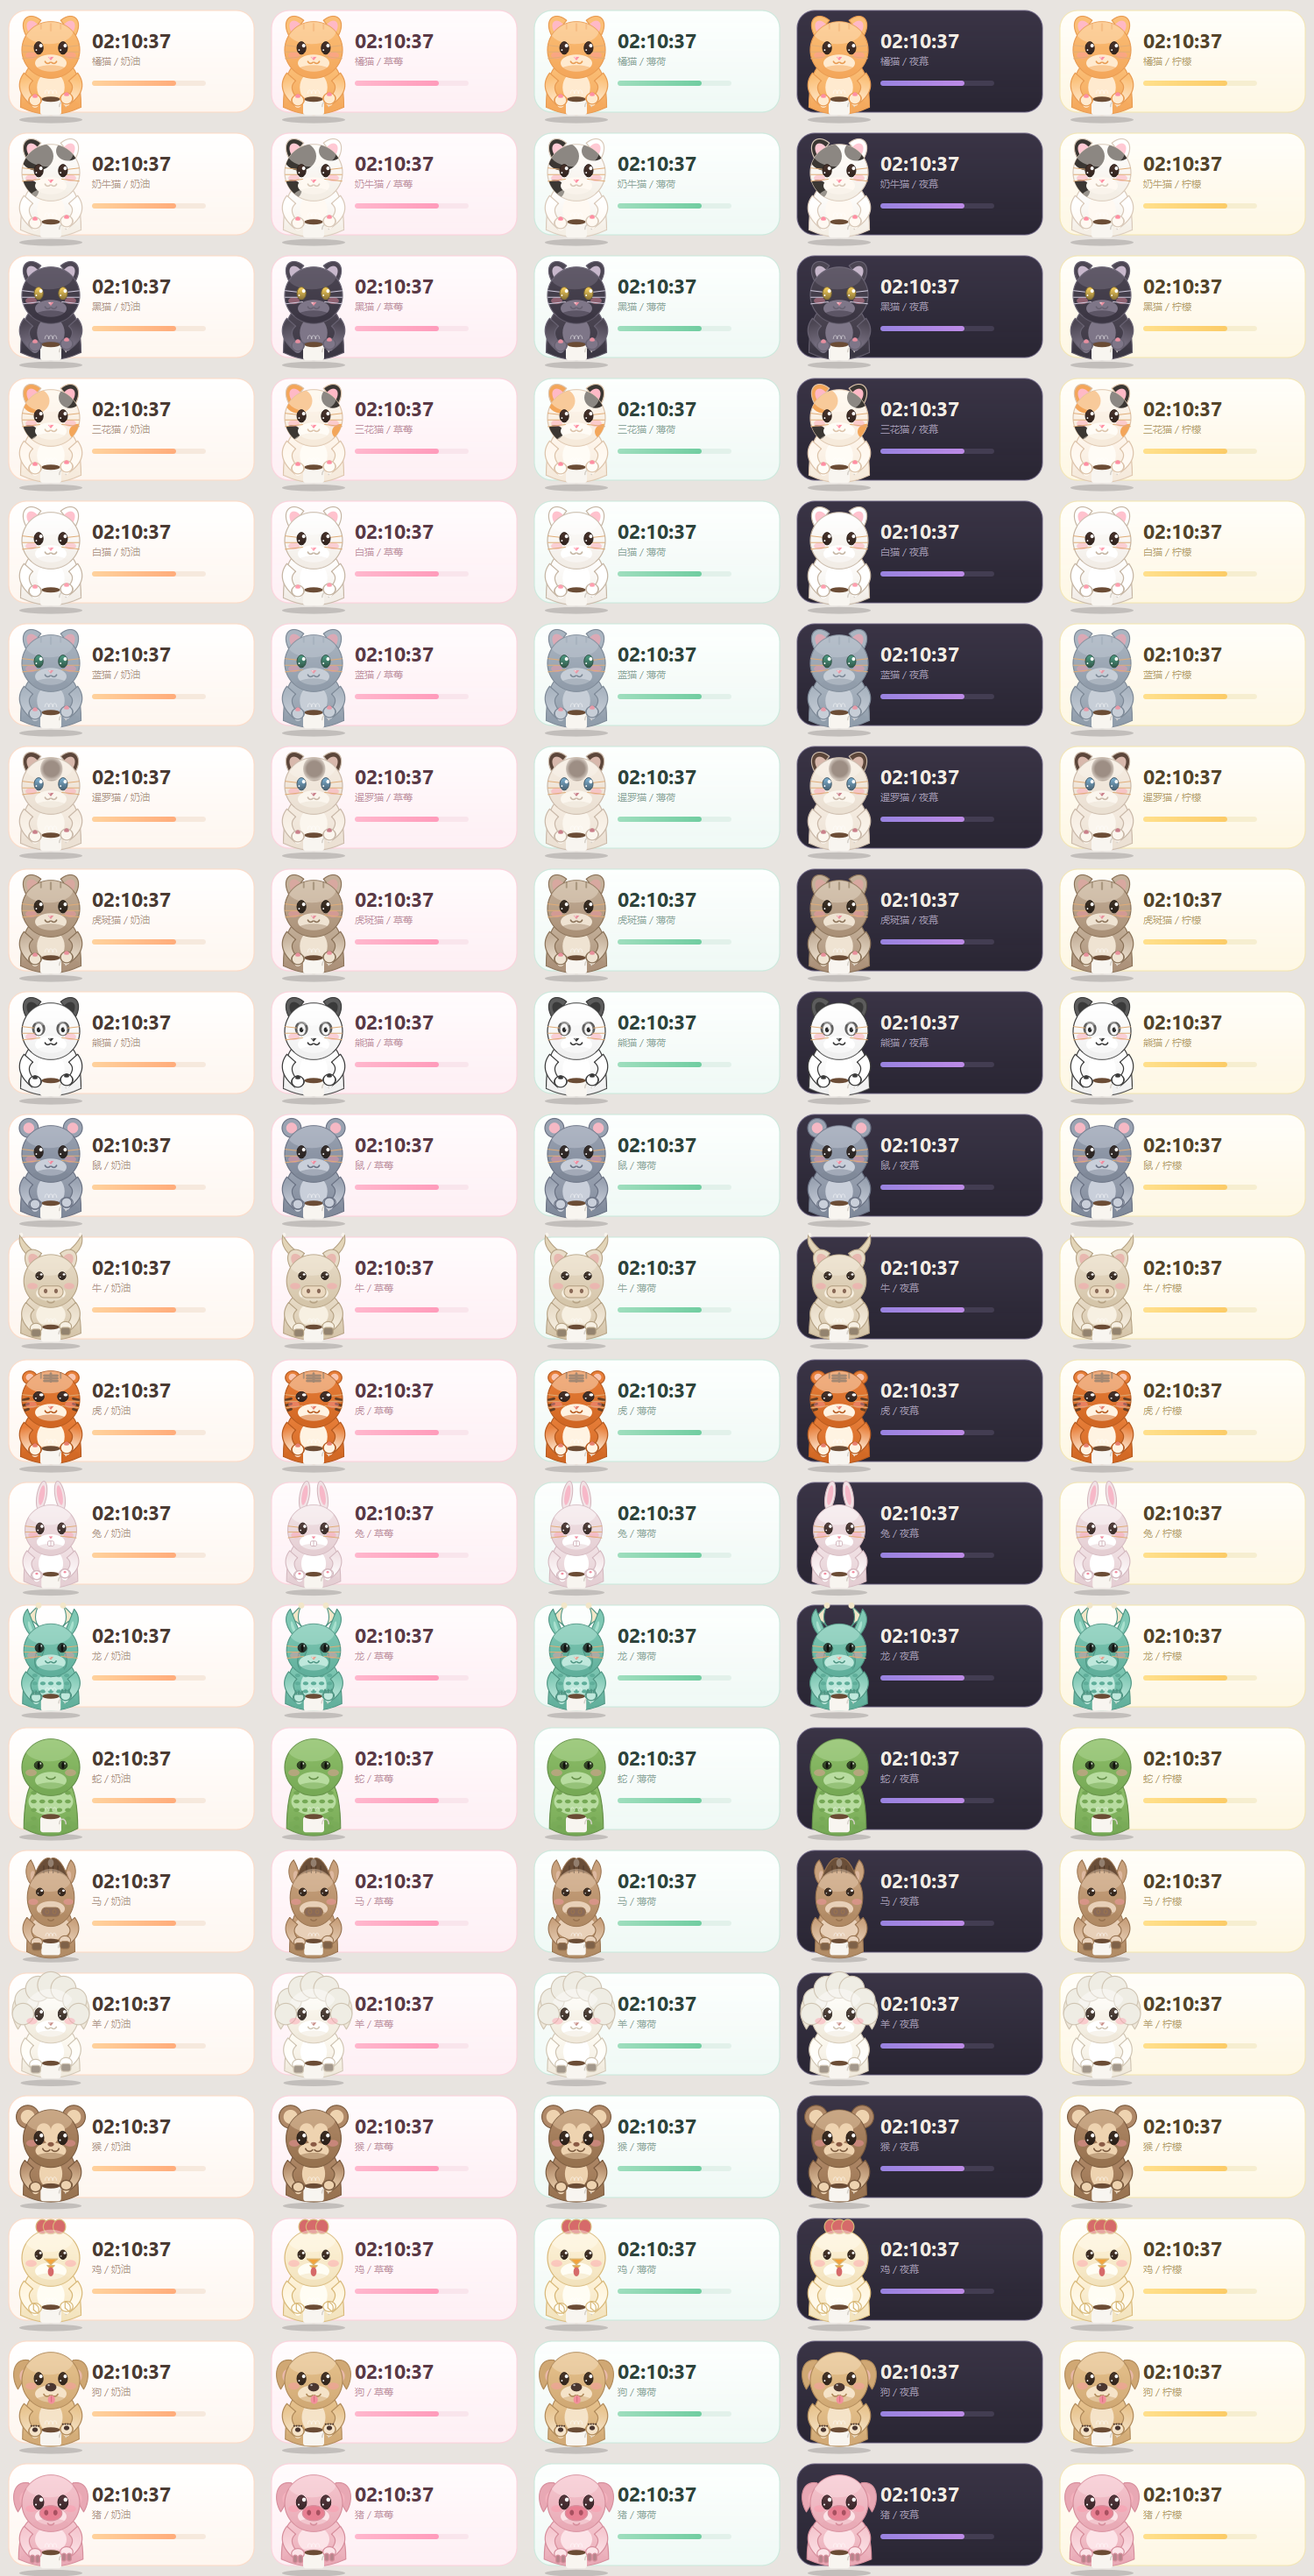
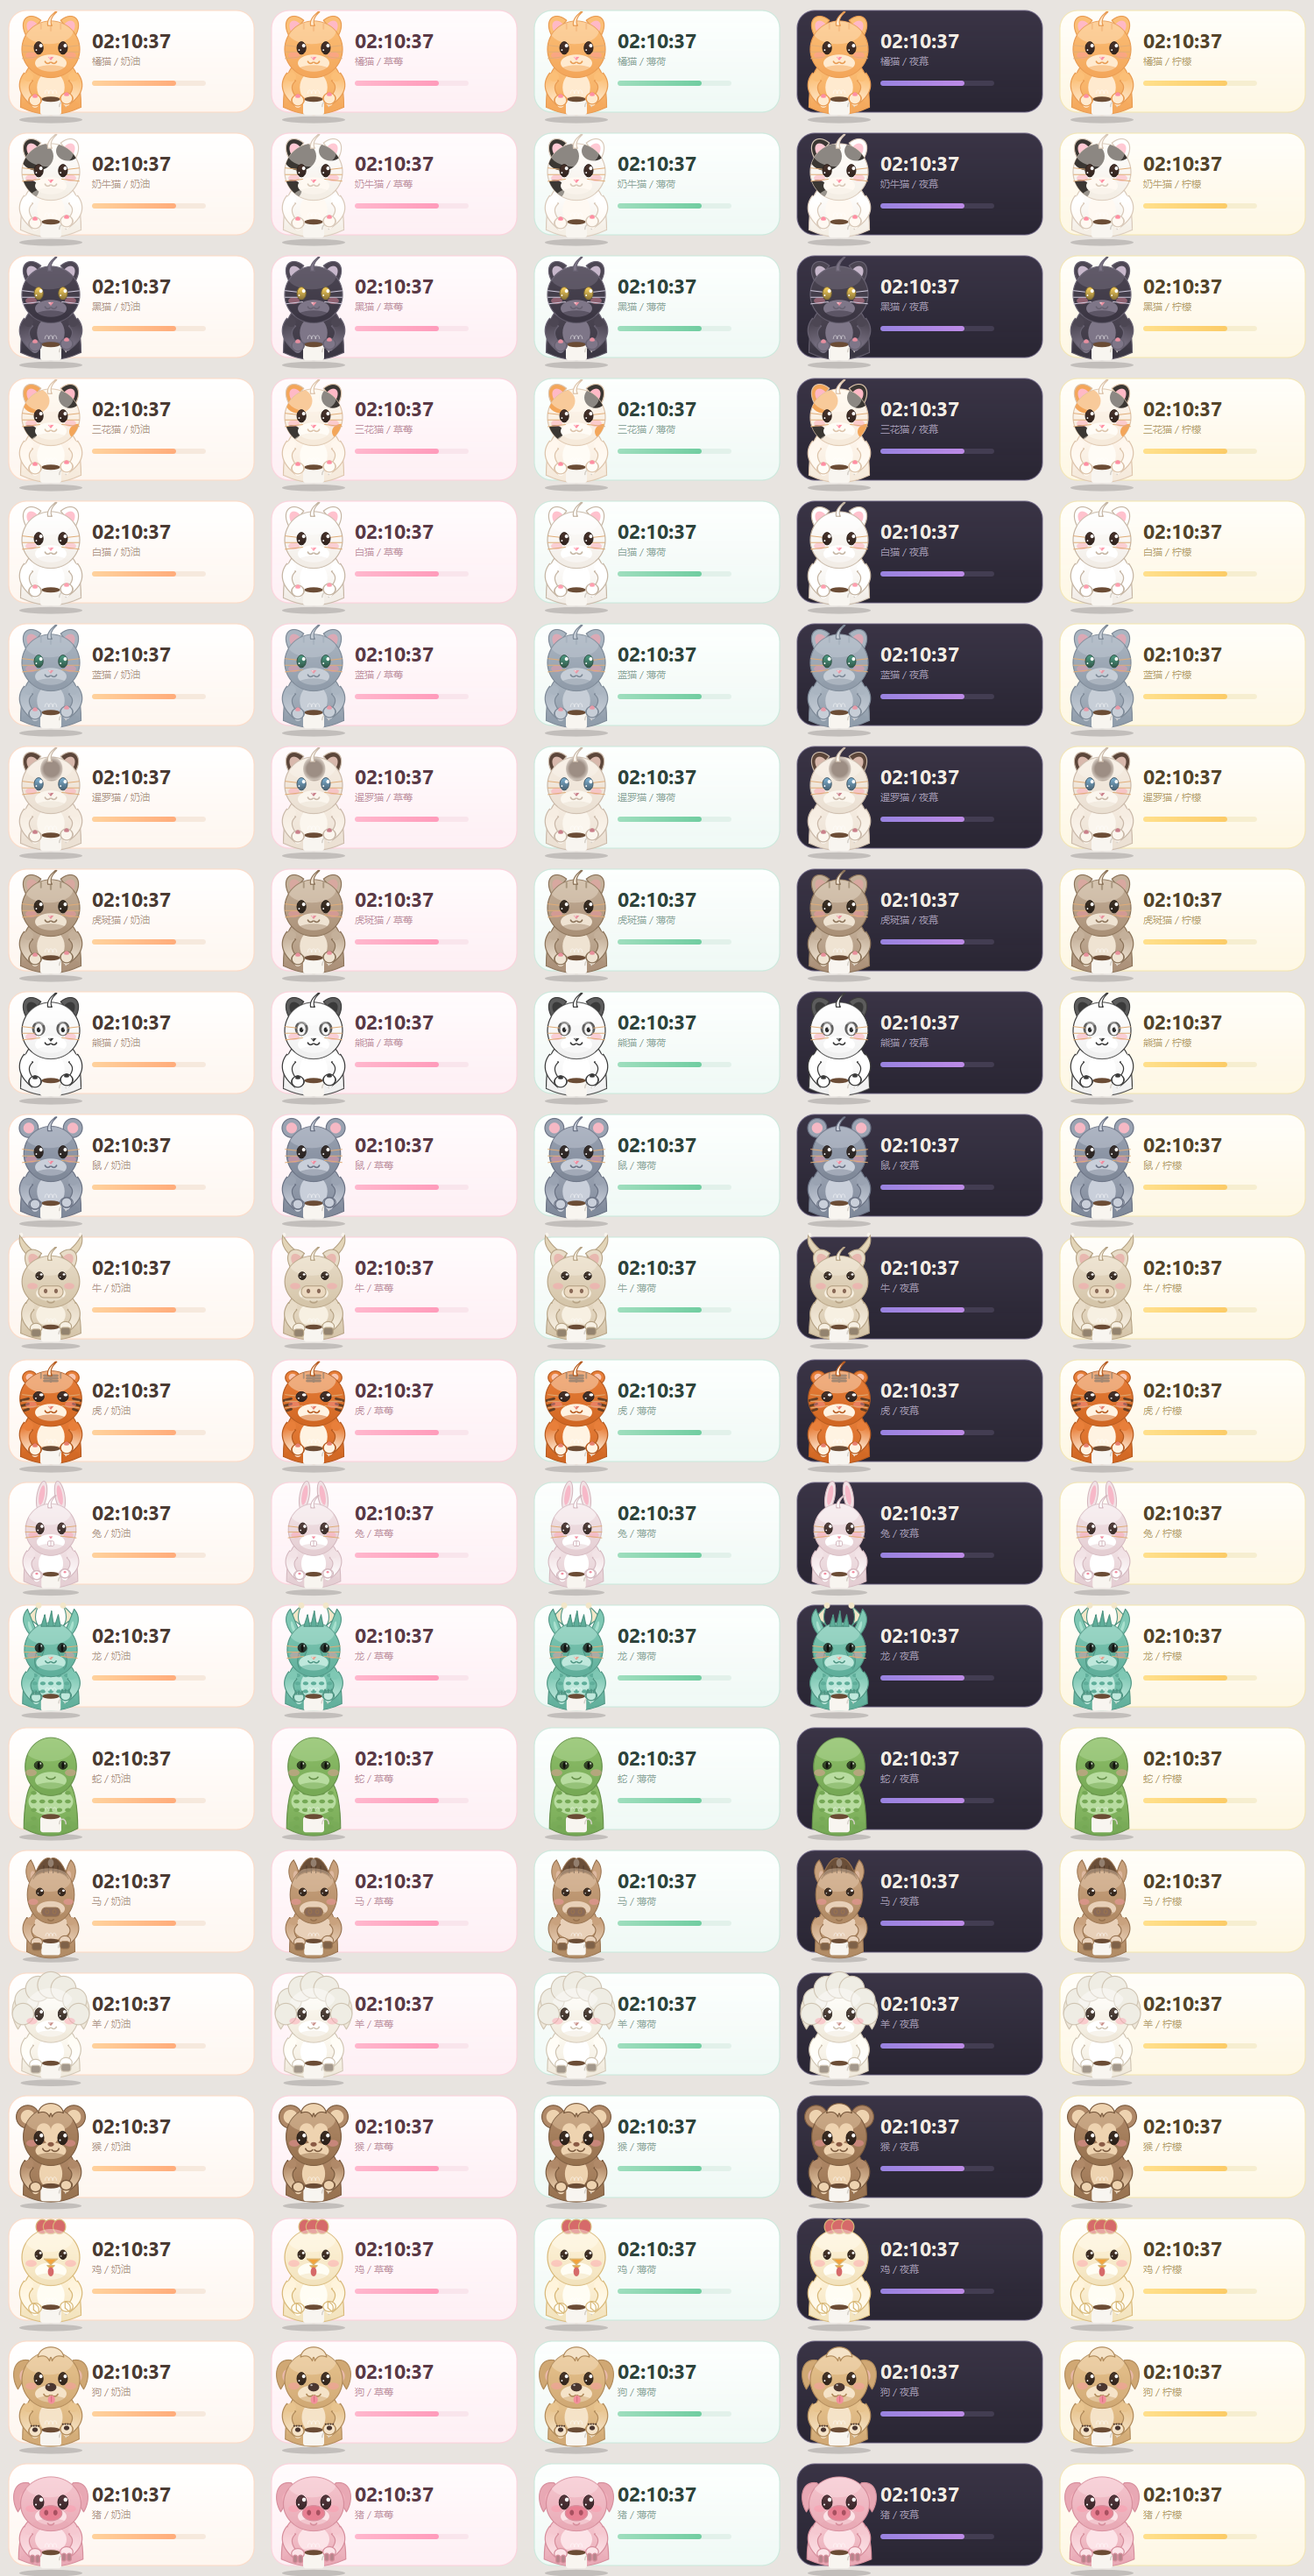
v30: 头部毛发+头型差异化，手掌分瓣+肩球，防秃头与优化手部

diff --git a/cat_clock.py b/cat_clock.py
@@ -534,11 +534,26 @@ def _draw_hand(p, x, y, s, colors, outline, kind="paw", palm_nx=0, palm_ny=1):
     p.drawEllipse(QRectF(x - wr_w * 0.55, y - wr_w * 0.55,
                          wr_w * 1.10, wr_w * 1.10))
 
-    # 手掌主体：圆润拳套（标准方向掌心朝上，椭圆上半为掌心侧）
+    # 手掌主体：圆润拳套 + 趾瓣（不再是光溜溜的蛋）
     a, b = r * 0.92, r * 0.74
+    lobes = {"paw": 3, "dog_paw": 4, "monkey": 4, "fingers": 4,
+             "puff_paw": 2, "claw": 3}.get(kind, 0)
+    hp = QPainterPath()
+    hp.addEllipse(QRectF(hx - a, hy - b, a * 2, b * 2))
+    if lobes and detail >= 1:
+        lr = r * 0.34
+        for i in range(lobes):
+            t2 = (i / (lobes - 1) - 0.5) if lobes > 1 else 0.0
+            hp.addEllipse(QRectF(hx + t2 * a * 1.15 - lr, hy - b * 0.62 - lr,
+                                 lr * 2, lr * 2))
+        if detail >= 2 and kind in ("paw", "dog_paw", "monkey"):
+            tr = r * 0.26                       # 拇指（掌心侧偏外）
+            hp.addEllipse(QRectF(hx - a * 0.88 - tr, hy - b * 0.10 - tr,
+                                 tr * 2, tr * 2))
+        hp = hp.simplified()
     p.setPen(outline)
     p.setBrush(QColor(base_col))
-    p.drawEllipse(QRectF(hx - a, hy - b, a * 2, b * 2))
+    p.drawPath(hp)
 
     if kind == "hoof":                                  # 马 / 牛 / 羊：单蹄
         hc = _mix(colors["fur_d"], "#3B2A22", 0.42)
@@ -691,6 +706,76 @@ def _draw_arm(p, sx, sy, ex, ey, bx, by, s, colors, outline):
     p.setPen(outline)
     p.setBrush(g)
     p.drawPath(path)
+    # 肩部圆球：抹掉手臂根部与身体之间的硬接缝
+    p.setPen(Qt.PenStyle.NoPen)
+    p.setBrush(QColor(colors["fur"]))
+    p.drawEllipse(QRectF(sx - sh_w * 0.40, sy - sh_w * 0.40,
+                         sh_w * 0.80, sh_w * 0.80))
+
+
+def _hair_strand(p, x, y, dx0, dy0, dx1, dy1, w0, w1):
+    """一根锥形毛发：根部 (x,y) 宽 w0，控制点偏移 (dx0,dy0)，尖端 (x+dx1,y+dy1) 宽 w1。"""
+    path = QPainterPath()
+    path.moveTo(x - w0 * 0.5, y)
+    path.quadTo(x + dx0 - w0 * 0.30, y + dy0, x + dx1 - w1 * 0.5, y + dy1)
+    path.lineTo(x + dx1 + w1 * 0.5, y + dy1)
+    path.quadTo(x + dx0 + w0 * 0.30, y + dy0, x + w0 * 0.5, y)
+    path.closeSubpath()
+    p.drawPath(path)
+
+
+def _draw_hair(p, cx, cy, s, colors, outline, style, head_top, hw=0.88, t=0.0):
+    """头顶毛发：让各物种的脑袋不再是同一个光椭圆。
+    style: tuft（呆毛）/ bangs（刘海）/ spike（龙角间尖刺）/ none。
+    """
+    if style == "none":
+        return
+    fur_l = colors["fur_l"]
+    fur_d = colors["fur_d"]
+    top = head_top
+    fine = s >= 110                      # 小尺寸下省略细碎毛，避免糊成一团
+    p.setPen(outline)
+    p.setBrush(QColor(fur_l))
+
+    if style == "tuft":
+        sw = math.sin(t * 1.5) * 0.014 * s
+        _hair_strand(p, cx - 0.02 * s + sw * 0.4, top + 0.07 * s,
+                     sw - 0.05 * s, -0.10 * s, sw + 0.08 * s, -0.21 * s,
+                     s * 0.062, s * 0.022)
+        if fine:
+            for sign in (-1, 1):
+                _hair_strand(p, cx + sign * 0.16 * s, top + 0.08 * s,
+                             sign * 0.02 * s, -0.09 * s, sign * 0.10 * s, -0.16 * s,
+                             s * 0.048, s * 0.018)
+    elif style == "bangs":
+        # 额前刘海：只覆盖中间，不贴到耳侧，避免像"头盔"
+        bw = 0.22 * s
+        b = QPainterPath()
+        b.moveTo(cx - bw * 0.90, top + 0.08 * s)
+        b.cubicTo(cx - bw * 0.75, top - 0.12 * s,
+                  cx + bw * 0.75, top - 0.12 * s,
+                  cx + bw * 0.90, top + 0.08 * s)
+        b.quadTo(cx + 0.07 * s, top + 0.03 * s, cx + 0.02 * s, top + 0.14 * s)
+        b.quadTo(cx, top + 0.03 * s, cx - 0.02 * s, top + 0.14 * s)
+        b.quadTo(cx - 0.07 * s, top + 0.03 * s, cx - bw * 0.90, top + 0.08 * s)
+        b.closeSubpath()
+        p.drawPath(b)
+        if fine:
+            for sign in (-1, 1):       # 两侧鬓角垂缕
+                _hair_strand(p, cx + sign * bw * 0.82, top + 0.09 * s,
+                             sign * 0.03 * s, 0.05 * s, sign * 0.06 * s, 0.12 * s,
+                             s * 0.050, s * 0.018)
+    elif style == "spike":
+        p.setBrush(QColor(colors.get("mane") or fur_d))
+        for dx, hgt in ((-0.11, 0.13), (0.0, 0.19), (0.11, 0.13)):
+            tri = QPainterPath()
+            tri.moveTo(cx + dx * s - 0.048 * s, top + 0.06 * s)
+            tri.lineTo(cx + dx * s + 0.048 * s, top + 0.06 * s)
+            tri.lineTo(cx + dx * s + 0.012 * s, top - hgt * s)
+            tri.closeSubpath()
+            p.drawPath(tri)
+        return
+
 
 
 def _draw_prop(p, prop, cx, cy, s, colors, side=None, wx=None, wy=None):
@@ -854,12 +939,9 @@ def draw_cat(p, cx, cy, s, colors=None, blink=False, excited=False, sleepy=False
         p.translate(-cx, -cy)
 
     shape = colors.get("shape", "cat")     # 动物脸型（默认猫）
-    if shape == "horse":                   # 马脸更长
-        head_rect = QRectF(cx - 0.40 * s, cy - 0.47 * s, 0.80 * s, 0.98 * s)
-    elif shape == "monkey":                # 猴：心形脸，下巴略尖
-        head_rect = QRectF(cx - 0.43 * s, cy - 0.43 * s, 0.86 * s, 0.90 * s)
-    else:
-        head_rect = QRectF(cx - 0.44 * s, cy - 0.42 * s, 0.88 * s, 0.86 * s)
+    hw, hh, hdy = _HEAD.get(shape, (0.88, 0.86, 0.0))   # 物种头型：宽 / 高 / 中心偏移
+    head_rect = QRectF(cx - hw / 2 * s, cy + (hdy - hh / 2) * s, hw * s, hh * s)
+    head_top = head_rect.top()
 
     # ---- 尾巴（最底层；按物种分样式，不再所有角色共用猫尾） ----
     if tail_phase is not None:
@@ -1451,6 +1533,10 @@ def draw_cat(p, cx, cy, s, colors=None, blink=False, excited=False, sleepy=False
     for sign in (-1, 1):
         p.drawEllipse(QRectF(cx + sign * 0.30 * s - 0.085 * s, cy + 0.04 * s, 0.17 * s, 0.105 * s))
 
+    # ---- 头顶毛发（物种差异化，避免所有脑袋都是同一个光椭圆） ----
+    _draw_hair(p, cx, cy, s, colors, outline, _HAIR.get(shape, "tuft"),
+               head_top, hw, t)
+
     # ---- 胡须（猫/鼠/兔/虎/龙；深毛色用浅须，浅毛色用经典橘须） ----
     if shape in ("cat", "rat", "rabbit", "tiger", "dragon"):
         hp = QPen(QColor("#CFC9DC") if dark else QColor("#E0AC76"), max(1.0, s * 0.012))
@@ -2021,6 +2107,28 @@ _TOP_EXT = {"rabbit": 0.86, "ox": 0.76, "dragon": 0.78,
 # 各物种身体形态（默认 round = 圆润标准）
 _BODY_SHAPE = {"horse": "long", "snake": "long", "ox": "wide", "pig": "wide",
                "dog": "slim", "monkey": "slim"}
+
+# 各物种头型：(宽, 高, 中心纵向偏移)，默认 (0.88, 0.86, 0)
+# 马/蛇修长，牛/猪/虎宽扁，鼠/兔小巧，猴心形略高
+_HEAD = {
+    "horse":  (0.80, 0.98, -0.03),
+    "snake":  (0.78, 0.88, 0.00),
+    "ox":     (0.94, 0.84, 0.02),
+    "pig":    (0.92, 0.82, 0.02),
+    "tiger":  (0.94, 0.84, 0.00),
+    "rat":    (0.82, 0.84, 0.01),
+    "rabbit": (0.86, 0.88, 0.00),
+    "monkey": (0.86, 0.90, -0.01),
+    "dog":    (0.88, 0.86, 0.00),
+    "dragon": (0.86, 0.88, 0.00),
+}
+
+# 各物种头顶毛发（默认 tuft = 呆毛；解决"所有脑袋都是光椭圆"的问题）
+_HAIR = {
+    "dog": "bangs", "monkey": "bangs", "dragon": "spike",
+    "snake": "none", "sheep": "none", "horse": "none", "rooster": "none",
+    "ox": "tuft", "pig": "none", "rat": "tuft", "rabbit": "tuft",
+}
 
 # 各物种眼睛形态：(纵向偏移, 半宽, 全高, 是否竖瞳)
 # 牛/马 → 小横椭圆、位置偏高；猪/猴 → 大而圆（猴位置偏低）；
